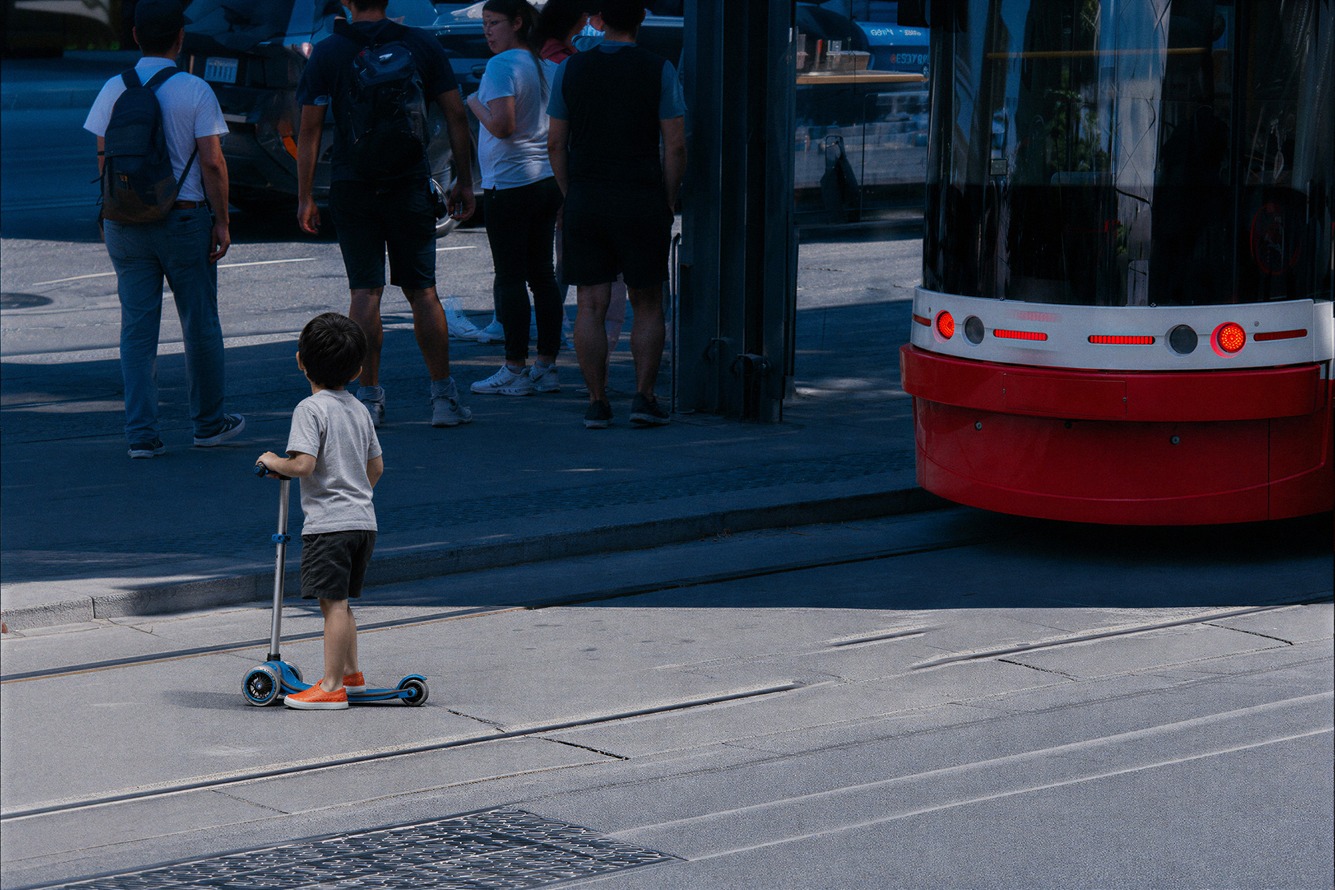
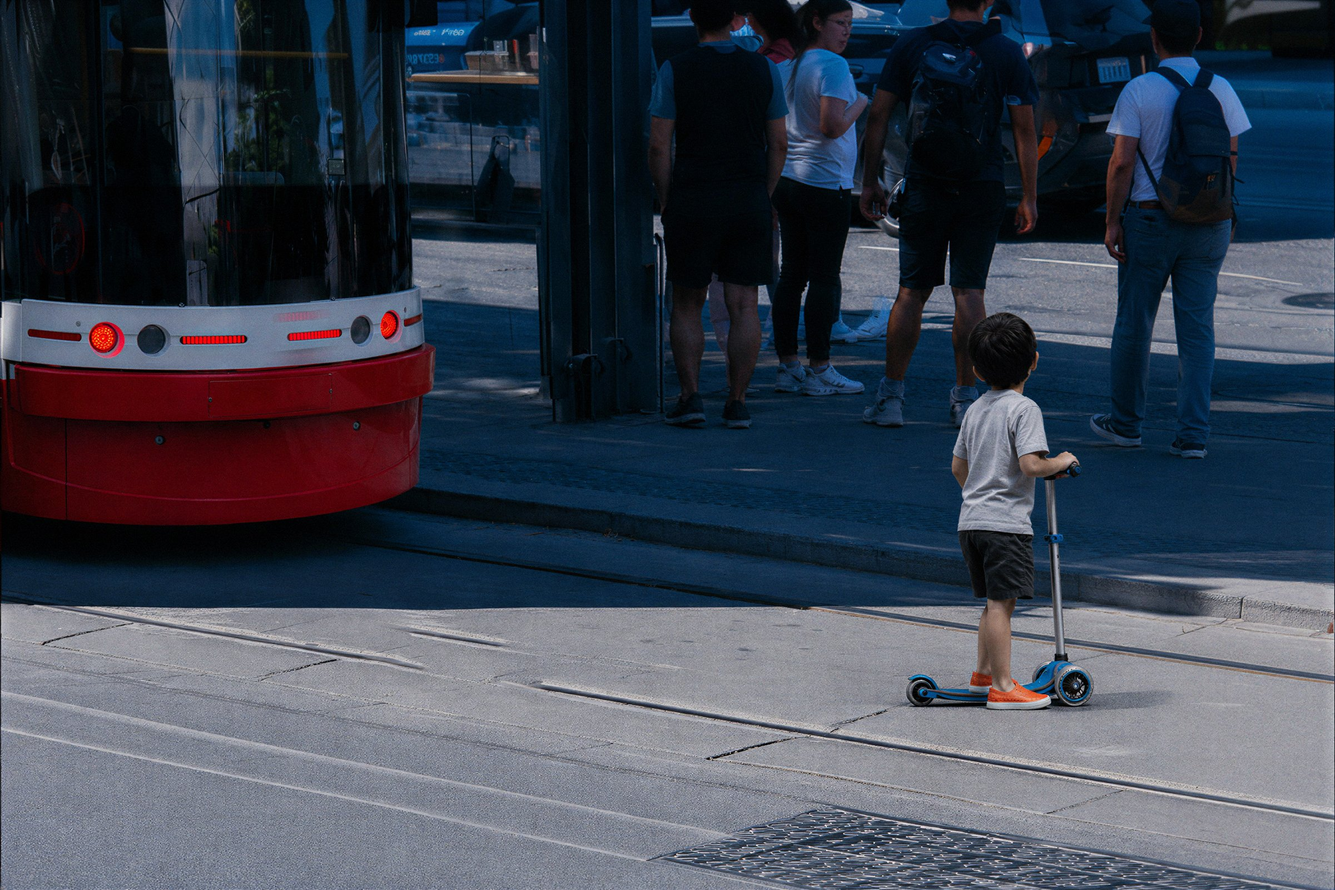
web draft 2

diff --git a/style.css b/style.css
@@ -17,10 +17,11 @@
    page-start become the same line, and the rail becomes a one-line
    sticky strip. One variable does the whole responsive move.
 
-   COLOUR is two grounds and one heat, assigned by meaning — not a
+   COLOUR is two grounds and two warms, assigned by meaning — not a
    ladder counting sections off. Structure separates the sections;
    colour is free to mean something. Shade is the film's world. Day is
-   the institution. Heat is Parker, and it is never a ground.
+   the institution. Ghost is Parker — one hue, drained, used once. Heat
+   is the invitation. Neither warm is ever a ground.
 
    Ratios below were computed against these exact values. If you change
    a colour, recompute — several pairings are deliberately close to the
@@ -42,13 +43,28 @@
 
   --paper:     #f2ede3;   /* body on shade — 14.0:1 on 900, 11.3:1 on 700 */
 
-  /* ---- heat: Parker, and nothing else ----------------------------- */
+  /* ---- two warms, and they mean different things ------------------ */
+
+  /* GHOST is Parker. Same hue as the heat below — 19deg, the hue of his
+     shoes — lifted pale but kept saturated. It appears exactly once, as
+     the wordmark, and nowhere else. Two passes to get here: the full
+     vibrancy read as energy, which fought the photograph (the picture is
+     about a child who is lost, and the title was behaving like an event
+     poster); draining it to #dfc5b9 went too far the other way and read
+     as beige, with the emotion gone. This splits the difference — very
+     light, still lit, haunting rather than either loud or dead.
+     8.55:1 on shade-900, far past the 3:1 a large graphic needs. */
+  --ghost:     #f9a887;
+
+  /* HEAT is the invitation — every place the visitor can act. Keeping it
+     vibrant is the point: the call for people should carry energy even
+     when the title does not. */
   --heat:      #d94f1e;   /* rules and fills only — 3.4:1 on day, too
                              low for body text, fine for a 1px line */
   --heat-deep: #b83c14;   /* heat as TEXT on day — 4.66:1. As the button
                              ground, paper on it is 4.87:1 */
   --heat-lit:  #ff7a3d;   /* heat on shade — 6.3:1 on 900, 5.1:1 on 700.
-                             The wordmark. His shoes. */
+                             Status line, rail links, focus, hover. */
 
   /* ---- type ------------------------------------------------------- */
   --human: "Space Grotesk", system-ui, sans-serif;
@@ -84,9 +100,29 @@
      keeps the rail breach, which is the crossing that carries the idea.
      Push --wm-span to 100% and --wm-overhang to ~5vw to get the louder
      version back. */
-  --wm-span:     72%;
+  --wm-span:     80%;
   --wm-breach:   1.8rem;
   --wm-overhang: 0rem;
+
+  /* --wm-rise is how much of the mark sits ABOVE the photo's top edge.
+     It was 50% — the mark centred on the edge — which cut the whole top
+     off on a wide monitor, because the hero's headroom row had collapsed
+     to nothing (see --hero-headroom). A quarter reads as deliberate
+     overlap; a half reads as a rendering fault.
+
+     --hero-headroom guarantees empty shade above the photograph so the
+     picture never touches the top of the browser and the rise always has
+     somewhere to go.
+
+     It MUST scale with the mark, not against it. The mark is --wm-span of
+     the field at a 3.29:1 ratio, so the rise is about
+     0.25 x 0.80 / 3.29 = 6.1% of the field, i.e. ~6.1vw. 7vw clears that
+     at every width with room to spare. A vh- or rem-based value does not
+     work: it stops growing while the mark keeps going, and the top of the
+     wordmark gets guillotined on a wide monitor — which is the bug this
+     replaced. If you raise --wm-span or --wm-rise, raise this too. */
+  --wm-rise:       25%;
+  --hero-headroom: max(3rem, 7vw);
 }
 
 *, *::before, *::after { box-sizing: border-box; }
@@ -144,7 +180,7 @@ body {
 }
 
 /* Placement. Every notice is placed onto the shared named lines. */
-.p-hero-photo { grid-column: f4 / page-end; }
+.p-hero-photo { grid-column: f3 / page-end; }
 .p-parker     { grid-column: field-start / f6; }
 .p-note       { grid-column: f6 / page-end; }
 .p-story      { grid-column: f2 / f6; }
@@ -224,7 +260,10 @@ a:focus-visible { outline: 2px solid var(--heat-lit); outline-offset: 3px; }
    affordable because the rail answers what / where / when / how in the
    same first screen. */
 .hero {
-  grid-template-rows: 1fr auto;
+  /* minmax, not 1fr. On a wide monitor the photograph is taller than
+     min-height, so a bare 1fr collapses to zero and the mark loses its
+     headroom. */
+  grid-template-rows: minmax(var(--hero-headroom), 1fr) auto;
   min-height: clamp(30rem, 88vh, 54rem);
   background: var(--shade-900);
 }
@@ -247,10 +286,10 @@ figure { margin: 0; }
   width: calc(var(--wm-span) + var(--wm-breach) + var(--wm-overhang));
   margin: 0 0 0 calc(var(--wm-breach) * -1);
   aspect-ratio: 571.01562 / 173.53568;
-  background-color: var(--heat-lit);
+  background-color: var(--ghost);
   -webkit-mask: url(scooterland_wm_white.svg) no-repeat left center / contain;
           mask: url(scooterland_wm_white.svg) no-repeat left center / contain;
-  transform: translateY(-50%) rotate(-2deg);
+  transform: translateY(calc(var(--wm-rise) * -1)) rotate(-2deg);
   transform-origin: left center;
   pointer-events: none;
 }
@@ -261,7 +300,7 @@ figure { margin: 0; }
   .wordmark {
     background-color: transparent;
     aspect-ratio: auto;
-    color: var(--heat-lit);
+    color: var(--ghost);
     font-family: var(--human);
     font-weight: 300;
     font-size: clamp(2.5rem, 11vw, 8rem);
@@ -542,9 +581,13 @@ button:focus-visible { outline: 3px solid var(--ink); outline-offset: 2px; }
 @media (max-width: 900px) {
   :root {
     --rail-w: 0px;
-    --wm-span: 100%;
+    /* 100% + an overhang put the mark straight back across the crowd at
+       tablet widths — the same objection that flipping the photo fixed
+       on desktop. 82% keeps it over the streetcar and the dark glass.
+       There is no rail to breach down here, so it just sits left. */
+    --wm-span: 82%;
     --wm-breach: 0rem;
-    --wm-overhang: 7vw;
+    --wm-overhang: 0rem;
   }
 
   .rail {

diff --git a/index.html b/index.html
@@ -66,7 +66,7 @@
   <figure class="p-hero-photo hero-photo">
     <img src="streetcar-1200.jpg"
          srcset="streetcar-1200.jpg 1200w, streetcar-2400.jpg 2400w"
-         sizes="(max-width: 1100px) 100vw, 62vw"
+         sizes="(max-width: 1100px) 100vw, 72vw"
          width="1201" height="800" fetchpriority="high"
          alt="A small boy stands alone on his scooter at the edge of a Toronto sidewalk as a streetcar pulls in. Every adult nearby is turned away from him.">
   </figure>
